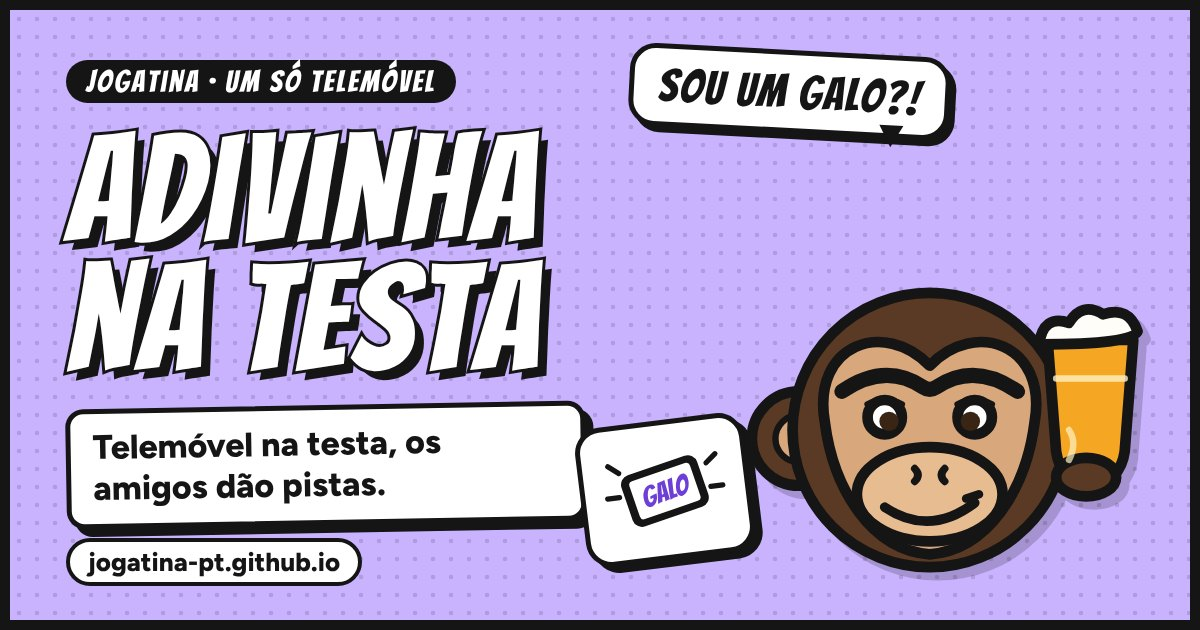
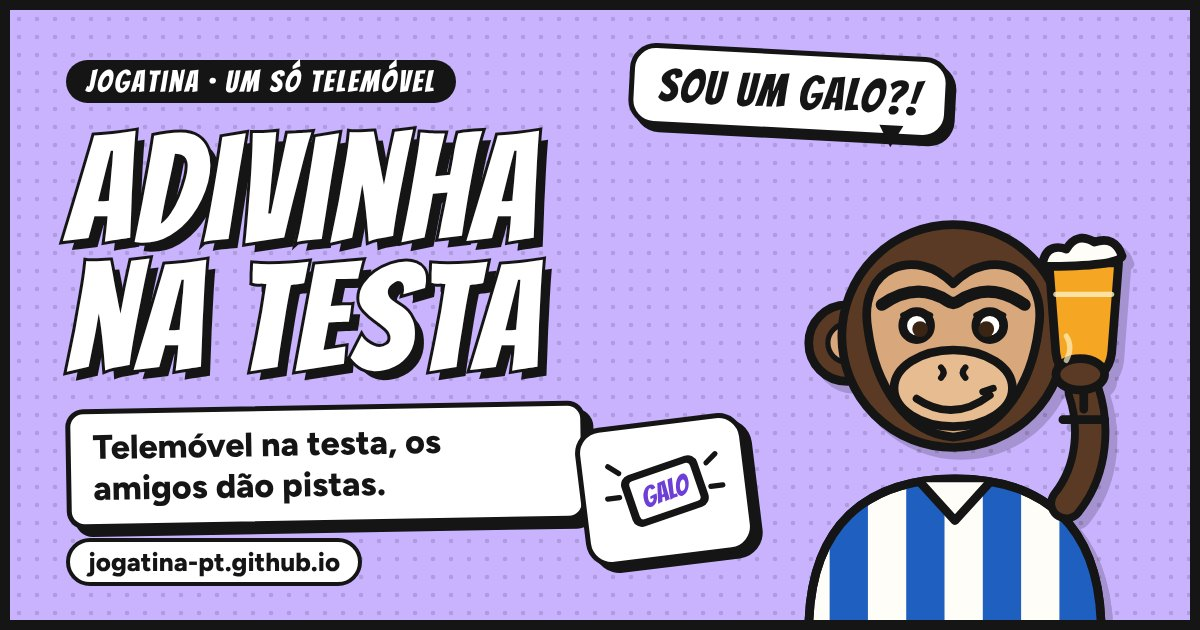
Macaco completo de volta no menu e nos jogos; só a cabeça no Voa Voa
Claude-Session: https://claude.ai/code/session_011LsVsj79WYP8BRWuYUNey5

Changed region(s): [[0.6167, 0.3317, 0.9558, 0.9952]]

diff --git a/index.html b/index.html
@@ -150,7 +150,6 @@ header.top{flex:none}
 .brand h1{font-size:clamp(34px,9vw,48px)}
 .hero{flex:none;display:flex;align-items:flex-end;justify-content:space-between;gap:6px;position:relative}
 .hero .mascot{height:clamp(96px,17dvh,190px);width:auto;flex:none}
-.hero .mascot.macaco{height:clamp(76px,13.5dvh,150px)}
 .hero .say{flex:1;display:flex;flex-direction:column;align-items:center;gap:6px;padding-bottom:10px;min-width:0}
 .hero .bubble-say{max-width:none;text-align:center;font-size:clamp(17px,4.6vw,26px);line-height:1.05}
 .hero .bubble-say.l::after{left:18px;right:auto}
@@ -182,7 +181,7 @@ header.top{flex:none}
 }
 @media (min-width:760px) and (min-height:600px){.game .pic{max-width:150px}}
 @media (max-height:700px){.game p{display:none}.game h3{margin-top:2px}}
-@media (max-height:700px){.hero .mascot{height:88px}.hero .mascot.macaco{height:68px}.hero .tagline{display:none}.hero .bubble-say{font-size:16px}.game h3{font-size:20px}.game p{font-size:11px}.games{gap:8px}}
+@media (max-height:700px){.hero .mascot{height:88px}.hero .tagline{display:none}.hero .bubble-say{font-size:16px}.game h3{font-size:20px}.game p{font-size:11px}.games{gap:8px}}
 @media (max-width:380px){header.top{flex-wrap:nowrap;gap:6px}.brand h1{font-size:29px}#installBtn{padding:4px 8px}}
 /* cartões em grelha: título em cima; etiqueta e desenho lado a lado em baixo, nunca um por cima do outro */
 .game{display:grid;grid-template-columns:minmax(0,1fr) auto;grid-template-rows:auto 1fr auto;column-gap:6px;row-gap:4px}
@@ -231,8 +230,13 @@ header.top{flex:none}
 <path d="M46 232l46-8M46 242l46-8M116 224l46 8M116 234l46 8" stroke-width="2.5" stroke="#8a8a8a"/>
 </g></svg>
     <div class="say"><div class="bubble-say">Joga com a malta, cada um no seu telemóvel!</div><p class="tagline">Grátis · sem conta · sem publicidade</p></div>
-    <svg class="mascot macaco" viewBox="22 30 192 140" role="img" aria-label="Macaco com uma imperial">
+    <svg class="mascot macaco" viewBox="0 0 230 270" role="img" aria-label="Macaco de camisola às riscas a beber uma imperial">
+<defs><clipPath id="mcShirt"><path d="M28 270C28 208 62 182 112 182C162 182 196 208 196 270Z"/></clipPath></defs>
 <g stroke="#151515" stroke-width="5" stroke-linejoin="round" stroke-linecap="round">
+<path d="M28 270C28 208 62 182 112 182C162 182 196 208 196 270Z" fill="#fffdf8"/>
+<g clip-path="url(#mcShirt)" stroke-width="0" fill="#1f5fc0"><rect x="40" y="170" width="22" height="110"/><rect x="84" y="170" width="22" height="110"/><rect x="128" y="170" width="22" height="110"/><rect x="172" y="170" width="22" height="110"/></g>
+<path d="M28 270C28 208 62 182 112 182C162 182 196 208 196 270Z" fill="none"/>
+<path d="M92 184l20 22l20-22" fill="#fffdf8"/>
 <circle cx="50" cy="104" r="22" fill="#5a3a24"/><circle cx="50" cy="104" r="11" fill="#d9a77c" stroke-width="3"/>
 <circle cx="172" cy="104" r="22" fill="#5a3a24"/><circle cx="172" cy="104" r="11" fill="#d9a77c" stroke-width="3"/>
 <circle cx="111" cy="100" r="64" fill="#5a3a24"/>
@@ -244,9 +248,11 @@ header.top{flex:none}
 <ellipse cx="111" cy="130" rx="34" ry="22" fill="#e8bc91"/>
 <path d="M104 118q3 3 0 6M118 118q-3 3 0 6" fill="none" stroke-width="3.5"/>
 <path d="M90 136q21 14 42-2" fill="none" stroke-width="4.5"/><path d="M128 132l6-2" stroke-width="4"/>
+<path d="M176 196C192 176 192 150 186 132" fill="none" stroke-width="22" stroke="#151515"/><path d="M176 196C192 176 192 150 186 132" fill="none" stroke-width="13" stroke="#5a3a24"/>
 <path d="M166 58l40 0l-4 52q-2 14-16 16q-14-2-16-16z" fill="#f5a623"/>
 <path d="M170 76h32" stroke="#fff3c4" stroke-width="3" opacity=".8"/>
 <path d="M162 60q2-14 14-10q6-10 16-4q12-4 16 8q-2 6-46 6z" fill="#fffdf8"/>
+<path d="M186 126v16M174 148h24" stroke-width="5"/>
 <ellipse cx="184" cy="122" rx="14" ry="9" fill="#5a3a24"/>
 <path d="M176 100q4 6 0 14" fill="none" stroke="#fff3c4" stroke-width="3" opacity=".7"/>
 </g></svg>
@@ -256,8 +262,13 @@ header.top{flex:none}
     <a class="game peta" href="peta/"><h3>Peta</h3><p>Inventa mentiras e engana os amigos.</p><span class="tag">2-8 · bluff</span><div class="pic" aria-hidden="true"><svg viewBox="0 0 64 48"><path d="M6 6h34a5 5 0 0 1 5 5v15a5 5 0 0 1-5 5H20l-8 7v-7H6a5 5 0 0 1-5-5V11a5 5 0 0 1 5-5z" fill="#fff" stroke="#151515" stroke-width="2.4" stroke-linejoin="round"/><text x="23" y="24" text-anchor="middle" font-family="Bangers, Impact, sans-serif" font-size="15" fill="#151515">?!</text><path d="M34 20h24a4 4 0 0 1 4 4v11a4 4 0 0 1-4 4h-3v6l-7-6H34a4 4 0 0 1-4-4V24a4 4 0 0 1 4-4z" fill="#d23a6e" stroke="#151515" stroke-width="2.4" stroke-linejoin="round"/><circle cx="40" cy="30" r="2" fill="#fff"/><circle cx="46" cy="30" r="2" fill="#fff"/><circle cx="52" cy="30" r="2" fill="#fff"/></svg></div></a>
     <a class="game tasca" href="tasca/"><h3>Conversa de Tasca</h3><p>A resposta mais parva ganha.</p><span class="tag">3-8 · família/+18</span><div class="pic" aria-hidden="true"><svg viewBox="0 0 64 48"><rect x="6" y="6" width="26" height="36" rx="4" fill="#1f2a28" stroke="#151515" stroke-width="2.4" transform="rotate(-8 19 24)"/><rect x="11" y="18" width="14" height="3" rx="1.5" fill="#fffaf1" transform="rotate(-8 19 24)"/><rect x="30" y="8" width="26" height="36" rx="4" fill="#fff" stroke="#151515" stroke-width="2.4" transform="rotate(9 43 26)"/><text x="44" y="32" text-anchor="middle" font-family="Bangers, Impact, sans-serif" font-size="12" fill="#4f7f23" transform="rotate(9 43 26)">AH!</text></svg></div></a>
     <a class="game branco" href="branco/"><h3>Senhor Branco</h3><p>Descobre o impostor pelas pistas.</p><span class="tag">3-10 · dedução</span><div class="pic" aria-hidden="true"><svg viewBox="0 0 64 48"><rect x="8" y="10" width="22" height="30" rx="4" fill="#2f5fb3" stroke="#151515" stroke-width="2.4" transform="rotate(-10 19 25)"/><rect x="21" y="5" width="22" height="30" rx="4" fill="#2f5fb3" stroke="#151515" stroke-width="2.4"/><rect x="34" y="10" width="22" height="30" rx="4" fill="#fff" stroke="#151515" stroke-width="2.4" transform="rotate(10 45 25)"/><text x="45" y="32" text-anchor="middle" font-family="Bangers, Impact, sans-serif" font-size="18" fill="#2f5fb3" transform="rotate(10 45 25)">?</text></svg></div></a>
-    <a class="game maisuma" href="maisuma/"><h3>Mais Uma!</h3><p>Eu nunca, verdades e desafios.</p><span class="tag">2-12 · +18</span><div class="pic" aria-hidden="true"><svg class="macaco-mini" viewBox="22 30 192 140" role="img" aria-label="Macaco com uma imperial">
+    <a class="game maisuma" href="maisuma/"><h3>Mais Uma!</h3><p>Eu nunca, verdades e desafios.</p><span class="tag">2-12 · +18</span><div class="pic" aria-hidden="true"><svg class="macaco-mini" viewBox="0 0 230 270" role="img" aria-label="Macaco de camisola às riscas a beber uma imperial">
+<defs><clipPath id="mcShirt2"><path d="M28 270C28 208 62 182 112 182C162 182 196 208 196 270Z"/></clipPath></defs>
 <g stroke="#151515" stroke-width="5" stroke-linejoin="round" stroke-linecap="round">
+<path d="M28 270C28 208 62 182 112 182C162 182 196 208 196 270Z" fill="#fffdf8"/>
+<g clip-path="url(#mcShirt2)" stroke-width="0" fill="#1f5fc0"><rect x="40" y="170" width="22" height="110"/><rect x="84" y="170" width="22" height="110"/><rect x="128" y="170" width="22" height="110"/><rect x="172" y="170" width="22" height="110"/></g>
+<path d="M28 270C28 208 62 182 112 182C162 182 196 208 196 270Z" fill="none"/>
+<path d="M92 184l20 22l20-22" fill="#fffdf8"/>
 <circle cx="50" cy="104" r="22" fill="#5a3a24"/><circle cx="50" cy="104" r="11" fill="#d9a77c" stroke-width="3"/>
 <circle cx="172" cy="104" r="22" fill="#5a3a24"/><circle cx="172" cy="104" r="11" fill="#d9a77c" stroke-width="3"/>
 <circle cx="111" cy="100" r="64" fill="#5a3a24"/>
@@ -269,9 +280,11 @@ header.top{flex:none}
 <ellipse cx="111" cy="130" rx="34" ry="22" fill="#e8bc91"/>
 <path d="M104 118q3 3 0 6M118 118q-3 3 0 6" fill="none" stroke-width="3.5"/>
 <path d="M90 136q21 14 42-2" fill="none" stroke-width="4.5"/><path d="M128 132l6-2" stroke-width="4"/>
+<path d="M176 196C192 176 192 150 186 132" fill="none" stroke-width="22" stroke="#151515"/><path d="M176 196C192 176 192 150 186 132" fill="none" stroke-width="13" stroke="#5a3a24"/>
 <path d="M166 58l40 0l-4 52q-2 14-16 16q-14-2-16-16z" fill="#f5a623"/>
 <path d="M170 76h32" stroke="#fff3c4" stroke-width="3" opacity=".8"/>
 <path d="M162 60q2-14 14-10q6-10 16-4q12-4 16 8q-2 6-46 6z" fill="#fffdf8"/>
+<path d="M186 126v16M174 148h24" stroke-width="5"/>
 <ellipse cx="184" cy="122" rx="14" ry="9" fill="#5a3a24"/>
 <path d="M176 100q4 6 0 14" fill="none" stroke="#fff3c4" stroke-width="3" opacity=".7"/>
 </g></svg></div></a>

diff --git a/tasca/index.html b/tasca/index.html
@@ -238,8 +238,13 @@ input{border:3px solid var(--stroke);box-shadow:3px 3px 0 var(--stroke)}
   </header>
 
   <section id="setup" class="setup">
-    <div class="hero-row"><h2>Quem tem a resposta<span>mais parva?</span></h2><svg class="mascot macaco" viewBox="22 30 192 140" role="img" aria-label="Macaco com uma imperial">
+    <div class="hero-row"><h2>Quem tem a resposta<span>mais parva?</span></h2><svg class="mascot macaco" viewBox="0 0 230 270" role="img" aria-label="Macaco de camisola às riscas a beber uma imperial">
+<defs><clipPath id="mcShirt"><path d="M28 270C28 208 62 182 112 182C162 182 196 208 196 270Z"/></clipPath></defs>
 <g stroke="#151515" stroke-width="5" stroke-linejoin="round" stroke-linecap="round">
+<path d="M28 270C28 208 62 182 112 182C162 182 196 208 196 270Z" fill="#fffdf8"/>
+<g clip-path="url(#mcShirt)" stroke-width="0" fill="#1f5fc0"><rect x="40" y="170" width="22" height="110"/><rect x="84" y="170" width="22" height="110"/><rect x="128" y="170" width="22" height="110"/><rect x="172" y="170" width="22" height="110"/></g>
+<path d="M28 270C28 208 62 182 112 182C162 182 196 208 196 270Z" fill="none"/>
+<path d="M92 184l20 22l20-22" fill="#fffdf8"/>
 <circle cx="50" cy="104" r="22" fill="#5a3a24"/><circle cx="50" cy="104" r="11" fill="#d9a77c" stroke-width="3"/>
 <circle cx="172" cy="104" r="22" fill="#5a3a24"/><circle cx="172" cy="104" r="11" fill="#d9a77c" stroke-width="3"/>
 <circle cx="111" cy="100" r="64" fill="#5a3a24"/>
@@ -251,9 +256,11 @@ input{border:3px solid var(--stroke);box-shadow:3px 3px 0 var(--stroke)}
 <ellipse cx="111" cy="130" rx="34" ry="22" fill="#e8bc91"/>
 <path d="M104 118q3 3 0 6M118 118q-3 3 0 6" fill="none" stroke-width="3.5"/>
 <path d="M90 136q21 14 42-2" fill="none" stroke-width="4.5"/><path d="M128 132l6-2" stroke-width="4"/>
+<path d="M176 196C192 176 192 150 186 132" fill="none" stroke-width="22" stroke="#151515"/><path d="M176 196C192 176 192 150 186 132" fill="none" stroke-width="13" stroke="#5a3a24"/>
 <path d="M166 58l40 0l-4 52q-2 14-16 16q-14-2-16-16z" fill="#f5a623"/>
 <path d="M170 76h32" stroke="#fff3c4" stroke-width="3" opacity=".8"/>
 <path d="M162 60q2-14 14-10q6-10 16-4q12-4 16 8q-2 6-46 6z" fill="#fffdf8"/>
+<path d="M186 126v16M174 148h24" stroke-width="5"/>
 <ellipse cx="184" cy="122" rx="14" ry="9" fill="#5a3a24"/>
 <path d="M176 100q4 6 0 14" fill="none" stroke="#fff3c4" stroke-width="3" opacity=".7"/>
 </g></svg></div>

diff --git a/testa/index.html b/testa/index.html
@@ -190,8 +190,13 @@ input{border:3px solid var(--stroke);box-shadow:3px 3px 0 var(--stroke)}
     </div>
   </header>
   <section id="setup" class="setup">
-    <div class="hero-row"><h2>Adivinha<span>na testa!</span></h2><svg class="mascot macaco" viewBox="22 30 192 140" role="img" aria-label="Macaco com uma imperial">
+    <div class="hero-row"><h2>Adivinha<span>na testa!</span></h2><svg class="mascot macaco" viewBox="0 0 230 270" role="img" aria-label="Macaco de camisola às riscas a beber uma imperial">
+<defs><clipPath id="mcShirt"><path d="M28 270C28 208 62 182 112 182C162 182 196 208 196 270Z"/></clipPath></defs>
 <g stroke="#151515" stroke-width="5" stroke-linejoin="round" stroke-linecap="round">
+<path d="M28 270C28 208 62 182 112 182C162 182 196 208 196 270Z" fill="#fffdf8"/>
+<g clip-path="url(#mcShirt)" stroke-width="0" fill="#1f5fc0"><rect x="40" y="170" width="22" height="110"/><rect x="84" y="170" width="22" height="110"/><rect x="128" y="170" width="22" height="110"/><rect x="172" y="170" width="22" height="110"/></g>
+<path d="M28 270C28 208 62 182 112 182C162 182 196 208 196 270Z" fill="none"/>
+<path d="M92 184l20 22l20-22" fill="#fffdf8"/>
 <circle cx="50" cy="104" r="22" fill="#5a3a24"/><circle cx="50" cy="104" r="11" fill="#d9a77c" stroke-width="3"/>
 <circle cx="172" cy="104" r="22" fill="#5a3a24"/><circle cx="172" cy="104" r="11" fill="#d9a77c" stroke-width="3"/>
 <circle cx="111" cy="100" r="64" fill="#5a3a24"/>
@@ -203,9 +208,11 @@ input{border:3px solid var(--stroke);box-shadow:3px 3px 0 var(--stroke)}
 <ellipse cx="111" cy="130" rx="34" ry="22" fill="#e8bc91"/>
 <path d="M104 118q3 3 0 6M118 118q-3 3 0 6" fill="none" stroke-width="3.5"/>
 <path d="M90 136q21 14 42-2" fill="none" stroke-width="4.5"/><path d="M128 132l6-2" stroke-width="4"/>
+<path d="M176 196C192 176 192 150 186 132" fill="none" stroke-width="22" stroke="#151515"/><path d="M176 196C192 176 192 150 186 132" fill="none" stroke-width="13" stroke="#5a3a24"/>
 <path d="M166 58l40 0l-4 52q-2 14-16 16q-14-2-16-16z" fill="#f5a623"/>
 <path d="M170 76h32" stroke="#fff3c4" stroke-width="3" opacity=".8"/>
 <path d="M162 60q2-14 14-10q6-10 16-4q12-4 16 8q-2 6-46 6z" fill="#fffdf8"/>
+<path d="M186 126v16M174 148h24" stroke-width="5"/>
 <ellipse cx="184" cy="122" rx="14" ry="9" fill="#5a3a24"/>
 <path d="M176 100q4 6 0 14" fill="none" stroke="#fff3c4" stroke-width="3" opacity=".7"/>
 </g></svg></div>

diff --git a/maisuma/index.html b/maisuma/index.html
@@ -239,8 +239,13 @@ input{border:3px solid var(--stroke);box-shadow:3px 3px 0 var(--stroke)}
   </header>
 
   <section id="setup" class="setup">
-    <div class="hero-row"><h2>Só mais<span>uma rodada.</span></h2><svg class="mascot macaco" viewBox="22 30 192 140" role="img" aria-label="Macaco com uma imperial">
+    <div class="hero-row"><h2>Só mais<span>uma rodada.</span></h2><svg class="mascot macaco" viewBox="0 0 230 270" role="img" aria-label="Macaco de camisola às riscas a beber uma imperial">
+<defs><clipPath id="mcShirt"><path d="M28 270C28 208 62 182 112 182C162 182 196 208 196 270Z"/></clipPath></defs>
 <g stroke="#151515" stroke-width="5" stroke-linejoin="round" stroke-linecap="round">
+<path d="M28 270C28 208 62 182 112 182C162 182 196 208 196 270Z" fill="#fffdf8"/>
+<g clip-path="url(#mcShirt)" stroke-width="0" fill="#1f5fc0"><rect x="40" y="170" width="22" height="110"/><rect x="84" y="170" width="22" height="110"/><rect x="128" y="170" width="22" height="110"/><rect x="172" y="170" width="22" height="110"/></g>
+<path d="M28 270C28 208 62 182 112 182C162 182 196 208 196 270Z" fill="none"/>
+<path d="M92 184l20 22l20-22" fill="#fffdf8"/>
 <circle cx="50" cy="104" r="22" fill="#5a3a24"/><circle cx="50" cy="104" r="11" fill="#d9a77c" stroke-width="3"/>
 <circle cx="172" cy="104" r="22" fill="#5a3a24"/><circle cx="172" cy="104" r="11" fill="#d9a77c" stroke-width="3"/>
 <circle cx="111" cy="100" r="64" fill="#5a3a24"/>
@@ -252,9 +257,11 @@ input{border:3px solid var(--stroke);box-shadow:3px 3px 0 var(--stroke)}
 <ellipse cx="111" cy="130" rx="34" ry="22" fill="#e8bc91"/>
 <path d="M104 118q3 3 0 6M118 118q-3 3 0 6" fill="none" stroke-width="3.5"/>
 <path d="M90 136q21 14 42-2" fill="none" stroke-width="4.5"/><path d="M128 132l6-2" stroke-width="4"/>
+<path d="M176 196C192 176 192 150 186 132" fill="none" stroke-width="22" stroke="#151515"/><path d="M176 196C192 176 192 150 186 132" fill="none" stroke-width="13" stroke="#5a3a24"/>
 <path d="M166 58l40 0l-4 52q-2 14-16 16q-14-2-16-16z" fill="#f5a623"/>
 <path d="M170 76h32" stroke="#fff3c4" stroke-width="3" opacity=".8"/>
 <path d="M162 60q2-14 14-10q6-10 16-4q12-4 16 8q-2 6-46 6z" fill="#fffdf8"/>
+<path d="M186 126v16M174 148h24" stroke-width="5"/>
 <ellipse cx="184" cy="122" rx="14" ry="9" fill="#5a3a24"/>
 <path d="M176 100q4 6 0 14" fill="none" stroke="#fff3c4" stroke-width="3" opacity=".7"/>
 </g></svg></div>

diff --git a/quemsou/index.html b/quemsou/index.html
@@ -296,8 +296,13 @@ input{border:3px solid var(--stroke);box-shadow:3px 3px 0 var(--stroke)}
   </header>
 
   <section id="setup" class="setup">
-    <div class="hero-row"><h2>Quem<span>sou eu?</span></h2><svg class="mascot macaco" viewBox="22 30 192 140" role="img" aria-label="Macaco com uma imperial">
+    <div class="hero-row"><h2>Quem<span>sou eu?</span></h2><svg class="mascot macaco" viewBox="0 0 230 270" role="img" aria-label="Macaco de camisola às riscas a beber uma imperial">
+<defs><clipPath id="mcShirt"><path d="M28 270C28 208 62 182 112 182C162 182 196 208 196 270Z"/></clipPath></defs>
 <g stroke="#151515" stroke-width="5" stroke-linejoin="round" stroke-linecap="round">
+<path d="M28 270C28 208 62 182 112 182C162 182 196 208 196 270Z" fill="#fffdf8"/>
+<g clip-path="url(#mcShirt)" stroke-width="0" fill="#1f5fc0"><rect x="40" y="170" width="22" height="110"/><rect x="84" y="170" width="22" height="110"/><rect x="128" y="170" width="22" height="110"/><rect x="172" y="170" width="22" height="110"/></g>
+<path d="M28 270C28 208 62 182 112 182C162 182 196 208 196 270Z" fill="none"/>
+<path d="M92 184l20 22l20-22" fill="#fffdf8"/>
 <circle cx="50" cy="104" r="22" fill="#5a3a24"/><circle cx="50" cy="104" r="11" fill="#d9a77c" stroke-width="3"/>
 <circle cx="172" cy="104" r="22" fill="#5a3a24"/><circle cx="172" cy="104" r="11" fill="#d9a77c" stroke-width="3"/>
 <circle cx="111" cy="100" r="64" fill="#5a3a24"/>
@@ -309,9 +314,11 @@ input{border:3px solid var(--stroke);box-shadow:3px 3px 0 var(--stroke)}
 <ellipse cx="111" cy="130" rx="34" ry="22" fill="#e8bc91"/>
 <path d="M104 118q3 3 0 6M118 118q-3 3 0 6" fill="none" stroke-width="3.5"/>
 <path d="M90 136q21 14 42-2" fill="none" stroke-width="4.5"/><path d="M128 132l6-2" stroke-width="4"/>
+<path d="M176 196C192 176 192 150 186 132" fill="none" stroke-width="22" stroke="#151515"/><path d="M176 196C192 176 192 150 186 132" fill="none" stroke-width="13" stroke="#5a3a24"/>
 <path d="M166 58l40 0l-4 52q-2 14-16 16q-14-2-16-16z" fill="#f5a623"/>
 <path d="M170 76h32" stroke="#fff3c4" stroke-width="3" opacity=".8"/>
 <path d="M162 60q2-14 14-10q6-10 16-4q12-4 16 8q-2 6-46 6z" fill="#fffdf8"/>
+<path d="M186 126v16M174 148h24" stroke-width="5"/>
 <ellipse cx="184" cy="122" rx="14" ry="9" fill="#5a3a24"/>
 <path d="M176 100q4 6 0 14" fill="none" stroke="#fff3c4" stroke-width="3" opacity=".7"/>
 </g></svg></div>
